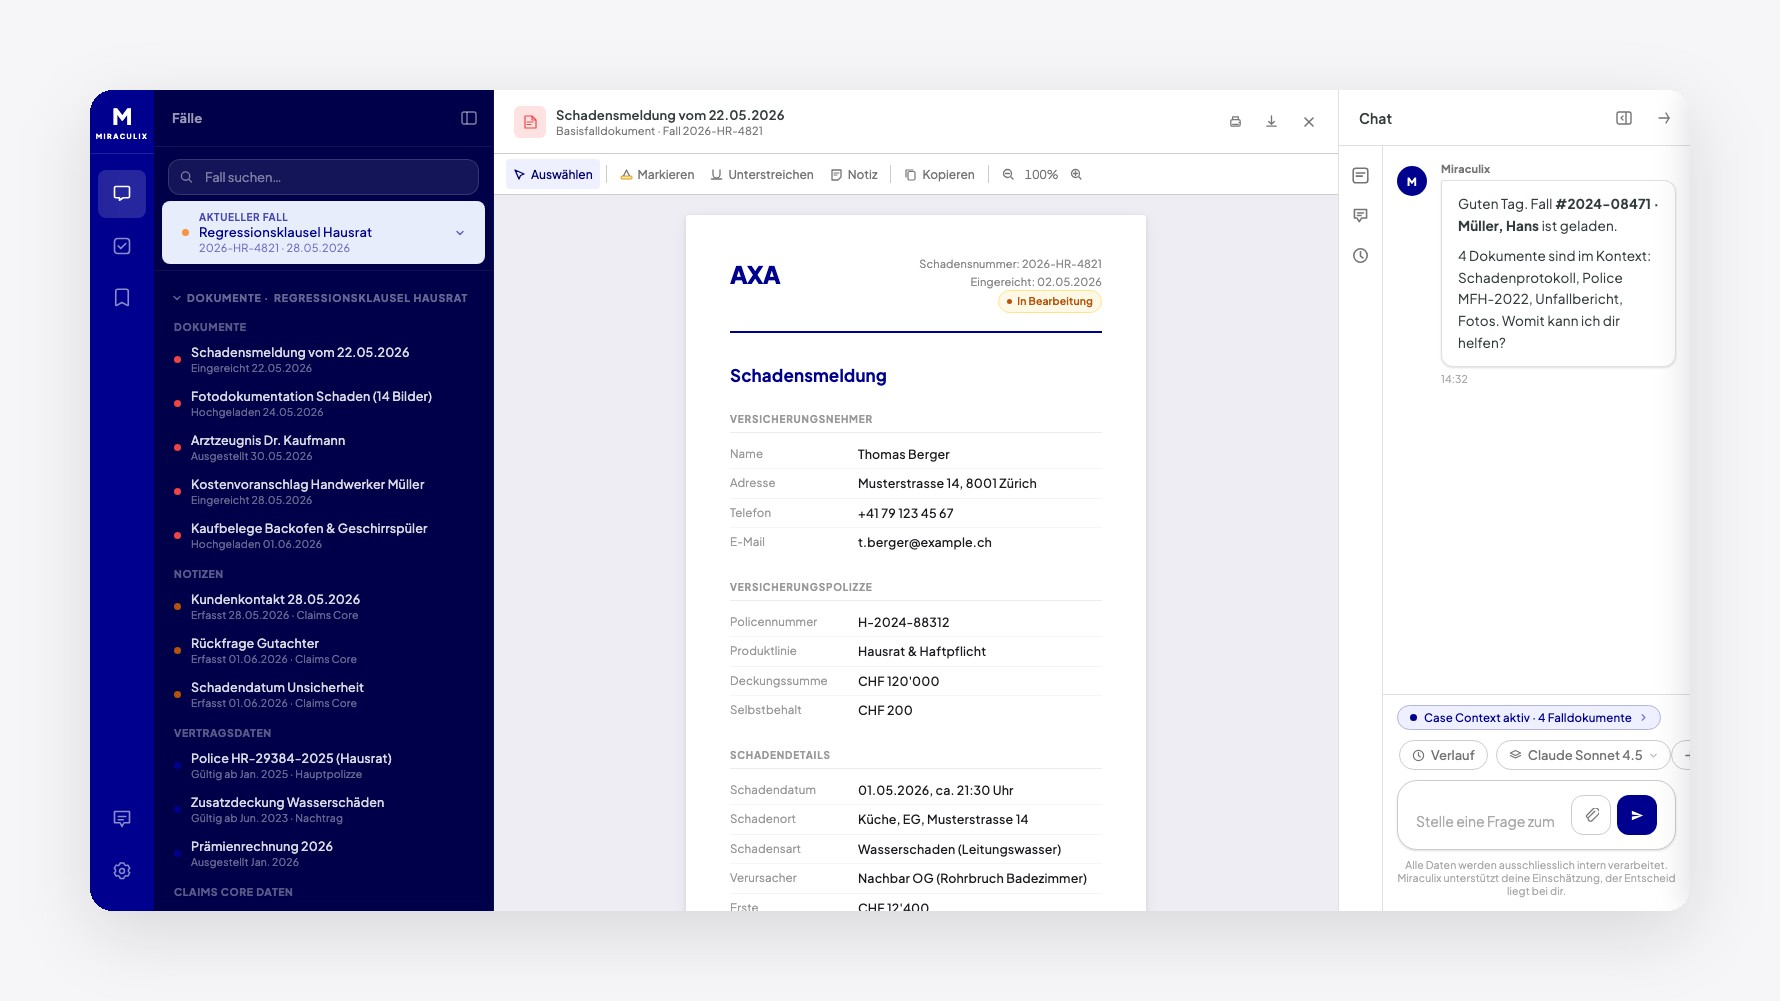
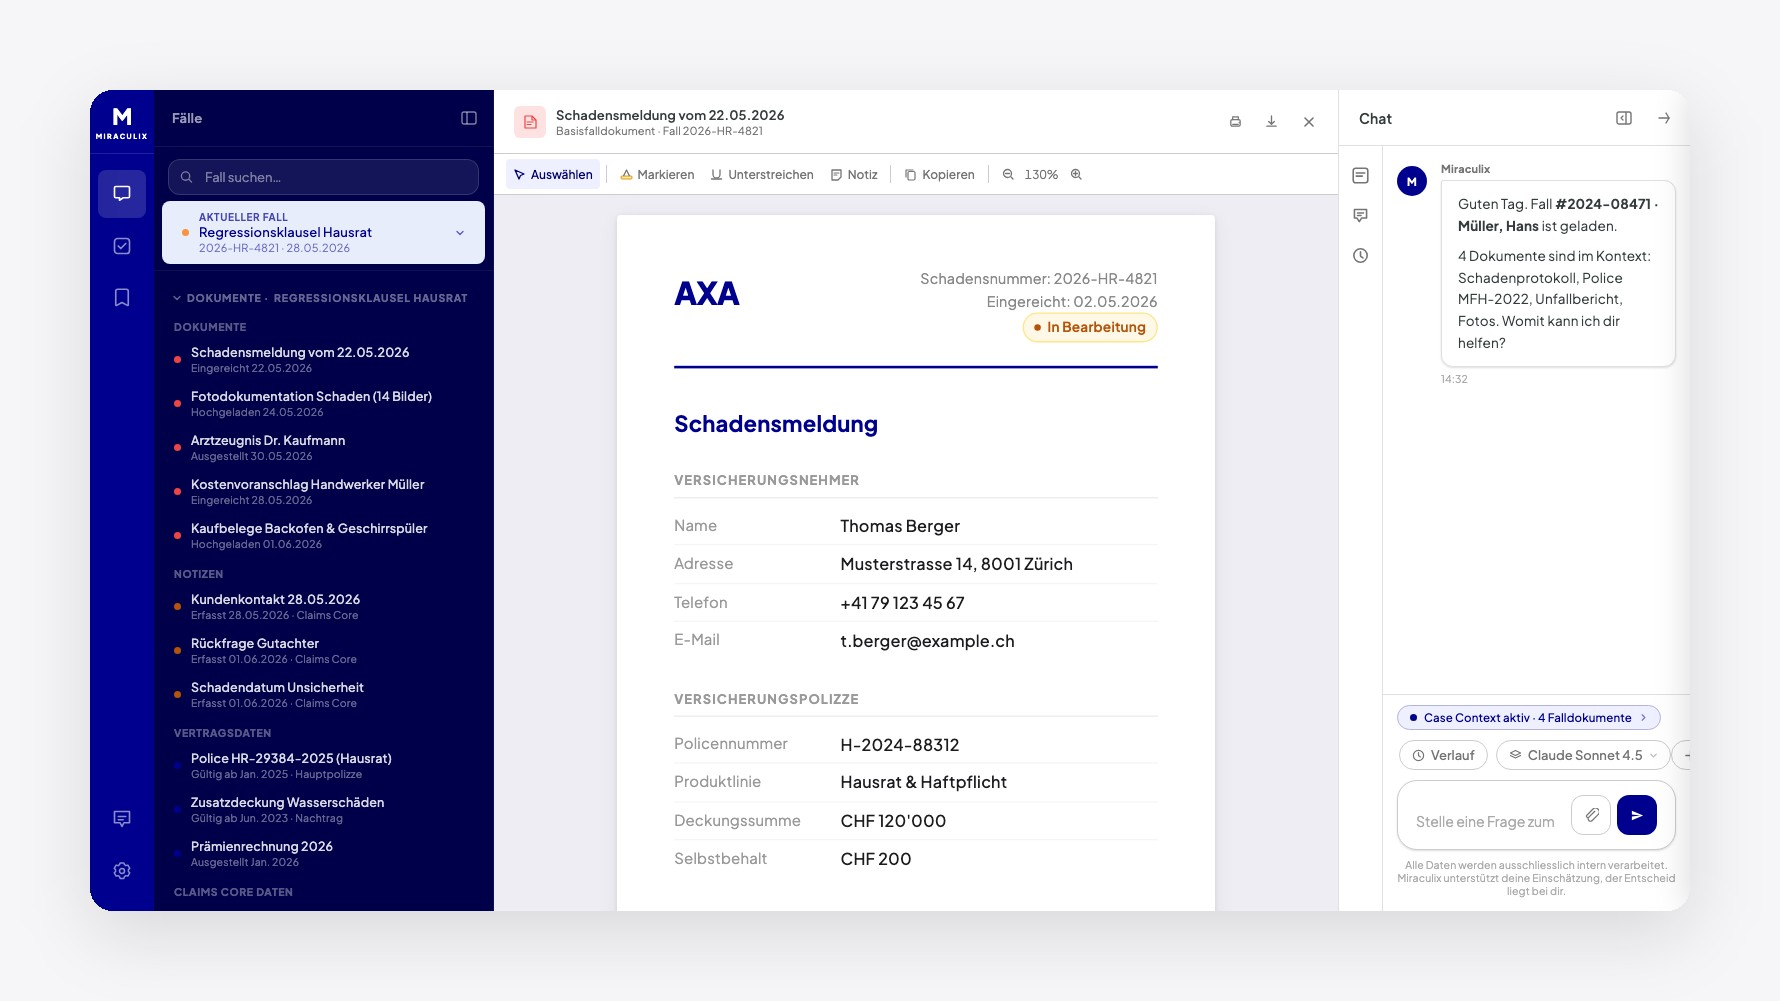
Remove redundant first Miraculix slide
The empty-state overview duplicated content already shown on the
zoomed document slide, so the slider is trimmed to three images.

diff --git a/projekte.html b/projekte.html
@@ -171,7 +171,6 @@
               <img loading="lazy" src="img/projekt-miraculix/slide-01.jpg" class="proj-slide" alt="Miraculix App – Bild 1" />
               <img loading="lazy" src="img/projekt-miraculix/slide-02.jpg" class="proj-slide" alt="Miraculix App – Bild 2" />
               <img loading="lazy" src="img/projekt-miraculix/slide-03.jpg" class="proj-slide" alt="Miraculix App – Bild 3" />
-              <img loading="lazy" src="img/projekt-miraculix/slide-04.jpg" class="proj-slide" alt="Miraculix App – Bild 4" />
             </div>
             <button class="proj-slider-btn prev" onclick="miraculixSlide(-1)" aria-label="Zurück">&#8592;</button>
             <button class="proj-slider-btn next" onclick="miraculixSlide(1)" aria-label="Weiter">&#8594;</button>
@@ -179,7 +178,6 @@
               <span id="miraculixDot0" class="proj-dot active" onclick="miraculixSlideTo(0)"></span>
               <span id="miraculixDot1" class="proj-dot" onclick="miraculixSlideTo(1)"></span>
               <span id="miraculixDot2" class="proj-dot" onclick="miraculixSlideTo(2)"></span>
-              <span id="miraculixDot3" class="proj-dot" onclick="miraculixSlideTo(3)"></span>
             </div>
           </div>
           <div class="proj-detail-text">
@@ -1293,7 +1291,7 @@ window.addEventListener('orientationchange', function() {
     });
   });
 })();
-  (function(){var cur=0,tot=4;function upd(){var t=document.getElementById('miraculixTrack');if(!t)return;t.style.transform='translateX(-'+(cur*100)+'%)';for(var j=0;j<tot;j++){var d=document.getElementById('miraculixDot'+j);if(d)d.classList.toggle('active',j===cur);}}window.miraculixSlide=function(d){cur=(cur+d+tot)%tot;upd();};window.miraculixSlideTo=function(i){cur=i;upd();};})();
+  (function(){var cur=0,tot=3;function upd(){var t=document.getElementById('miraculixTrack');if(!t)return;t.style.transform='translateX(-'+(cur*100)+'%)';for(var j=0;j<tot;j++){var d=document.getElementById('miraculixDot'+j);if(d)d.classList.toggle('active',j===cur);}}window.miraculixSlide=function(d){cur=(cur+d+tot)%tot;upd();};window.miraculixSlideTo=function(i){cur=i;upd();};})();
 </script>
 </body>
 </html>
